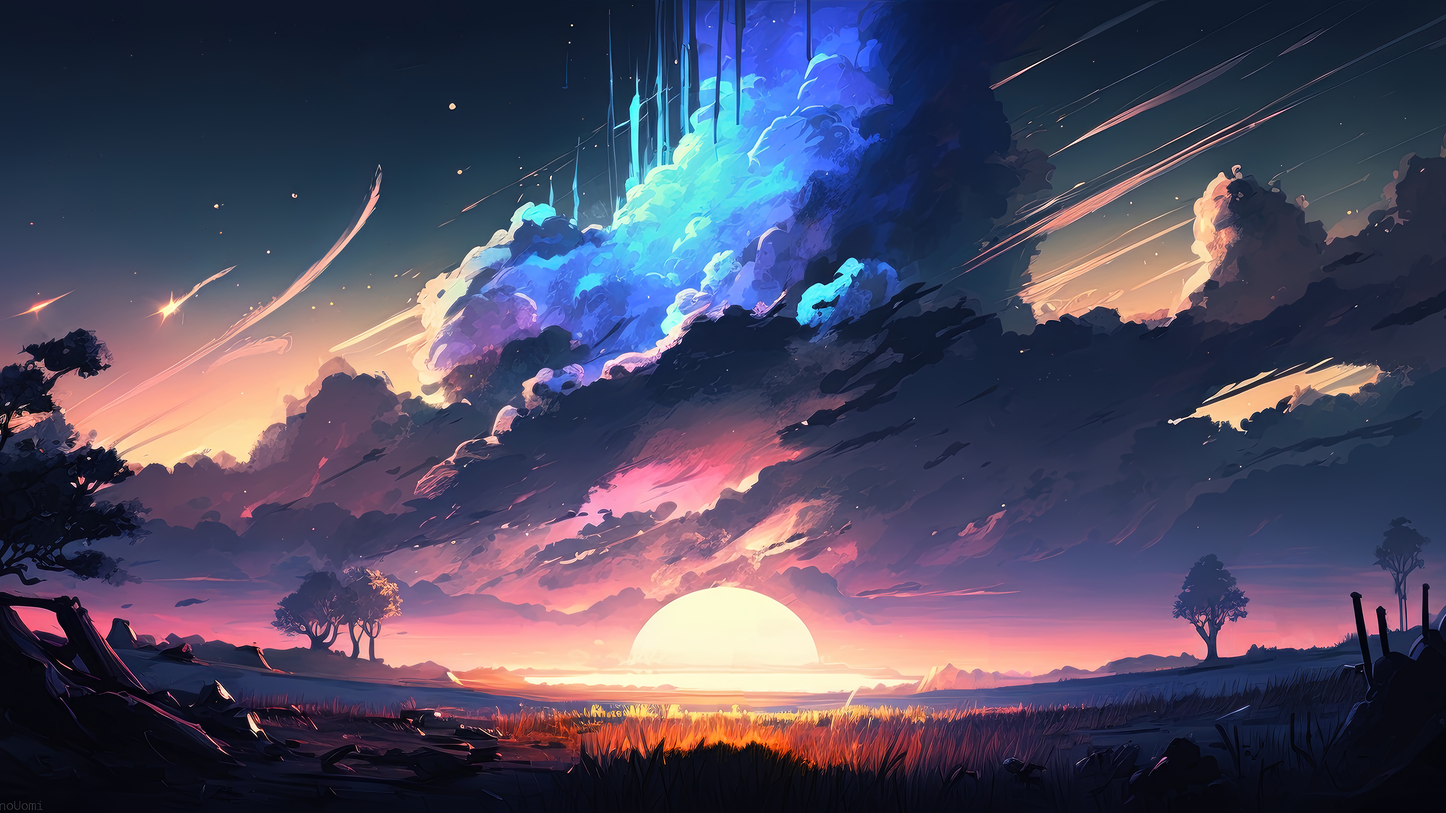
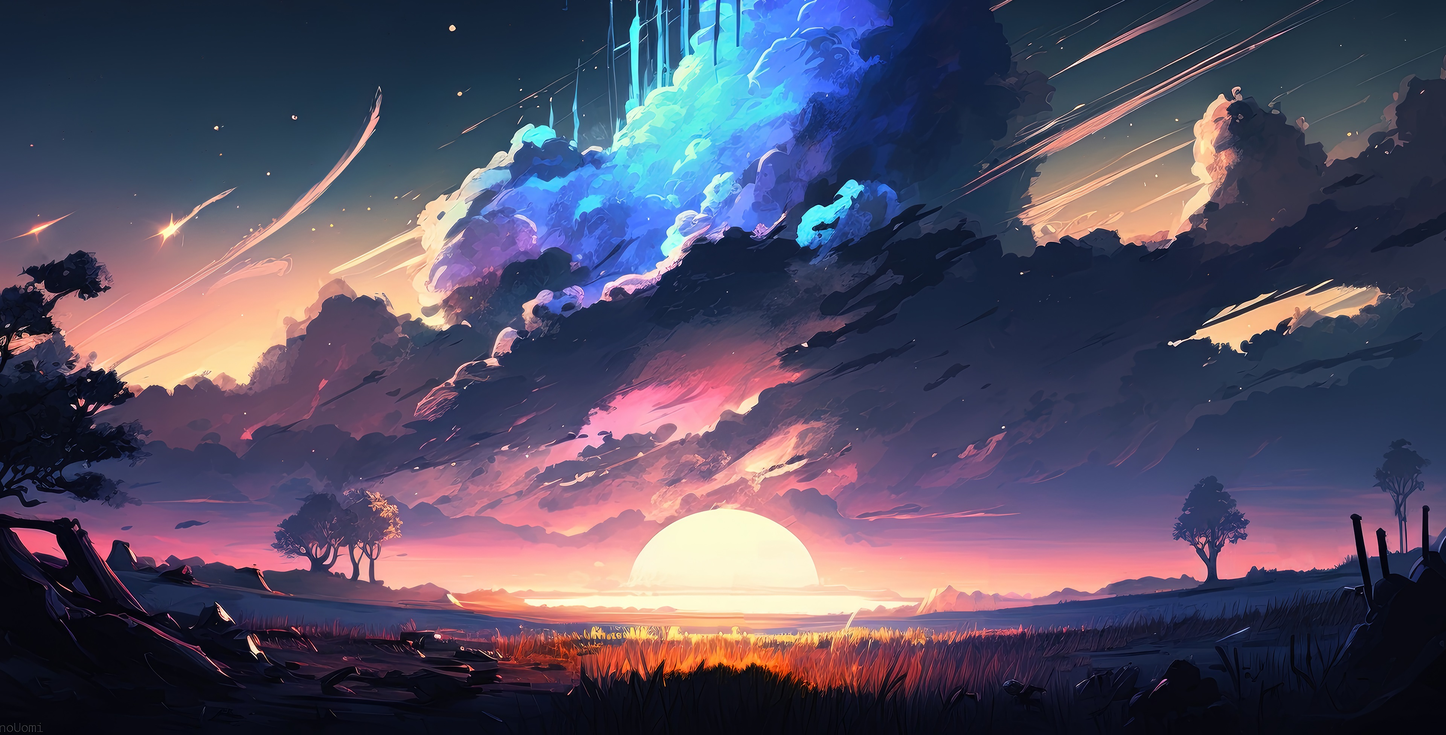
cropped background photos, added alternating bg

diff --git a/_includes/head.html b/_includes/head.html
@@ -25,7 +25,7 @@
   <!-- background -->
   <style>
     body {
-      background-image: linear-gradient(rgba(103, 8, 239,0.7), rgba(54, 8, 159,0.7)), url("/media/global/bg0.jpeg");
+      background-image: linear-gradient(rgba(103, 8, 239,0.7), rgba(54, 8, 159,0.7)), url("/media/global/bg4.jpeg");
       background-repeat: no-repeat;
       background-attachment: fixed;
       background-size: cover;
